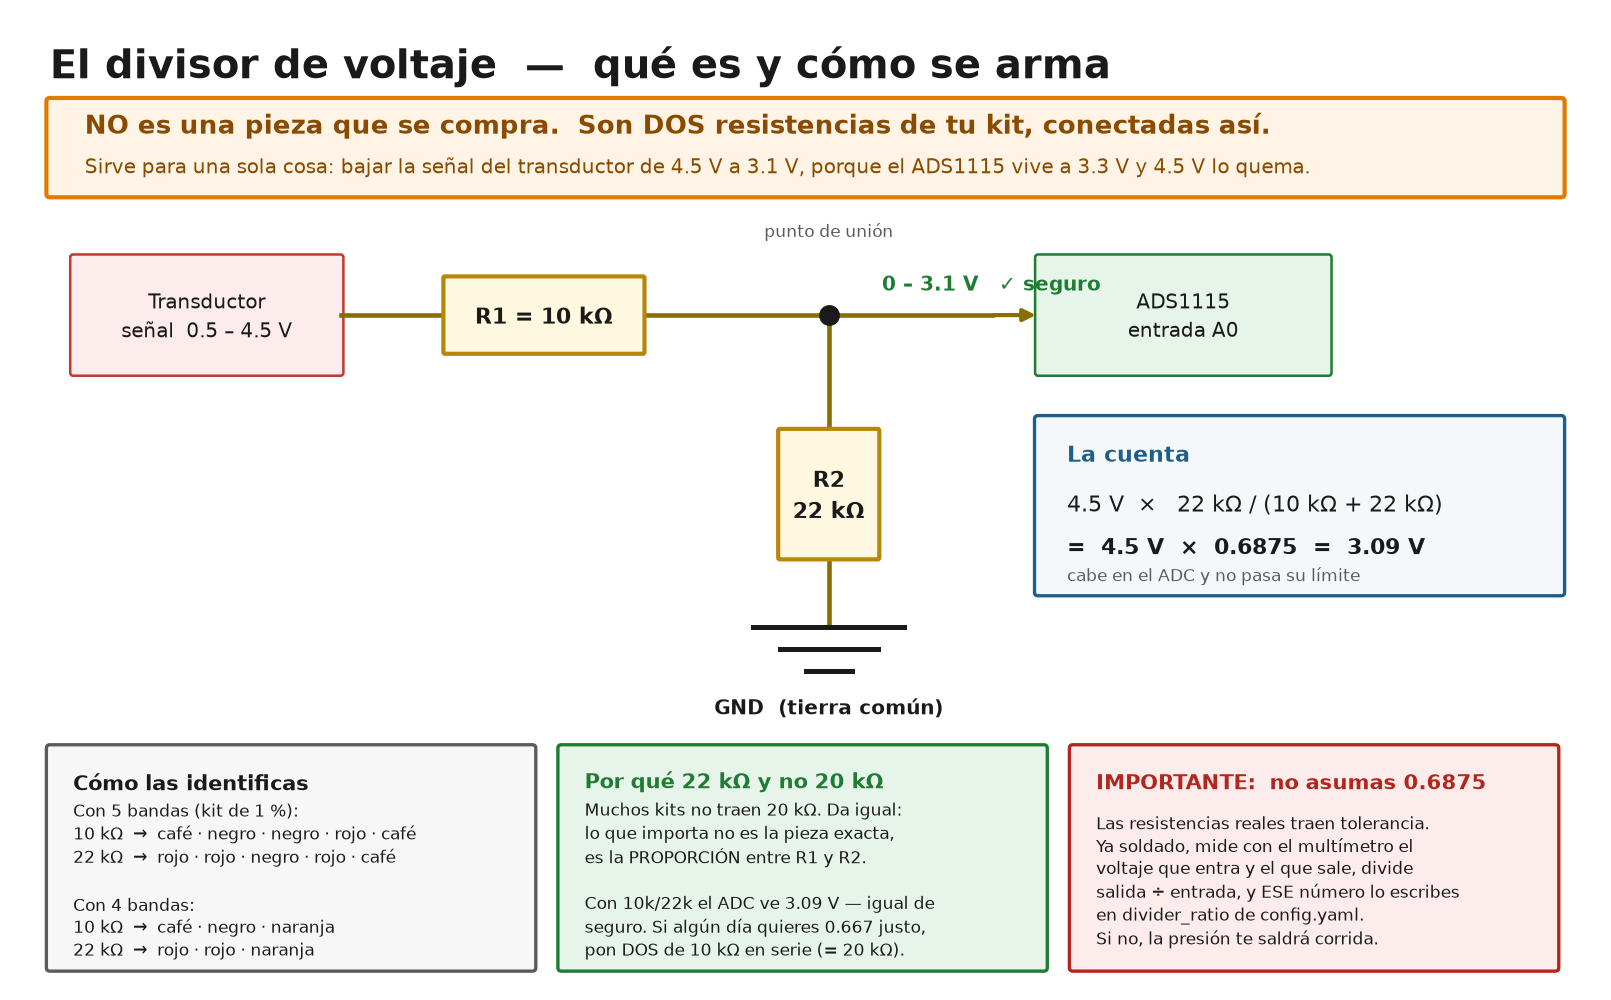
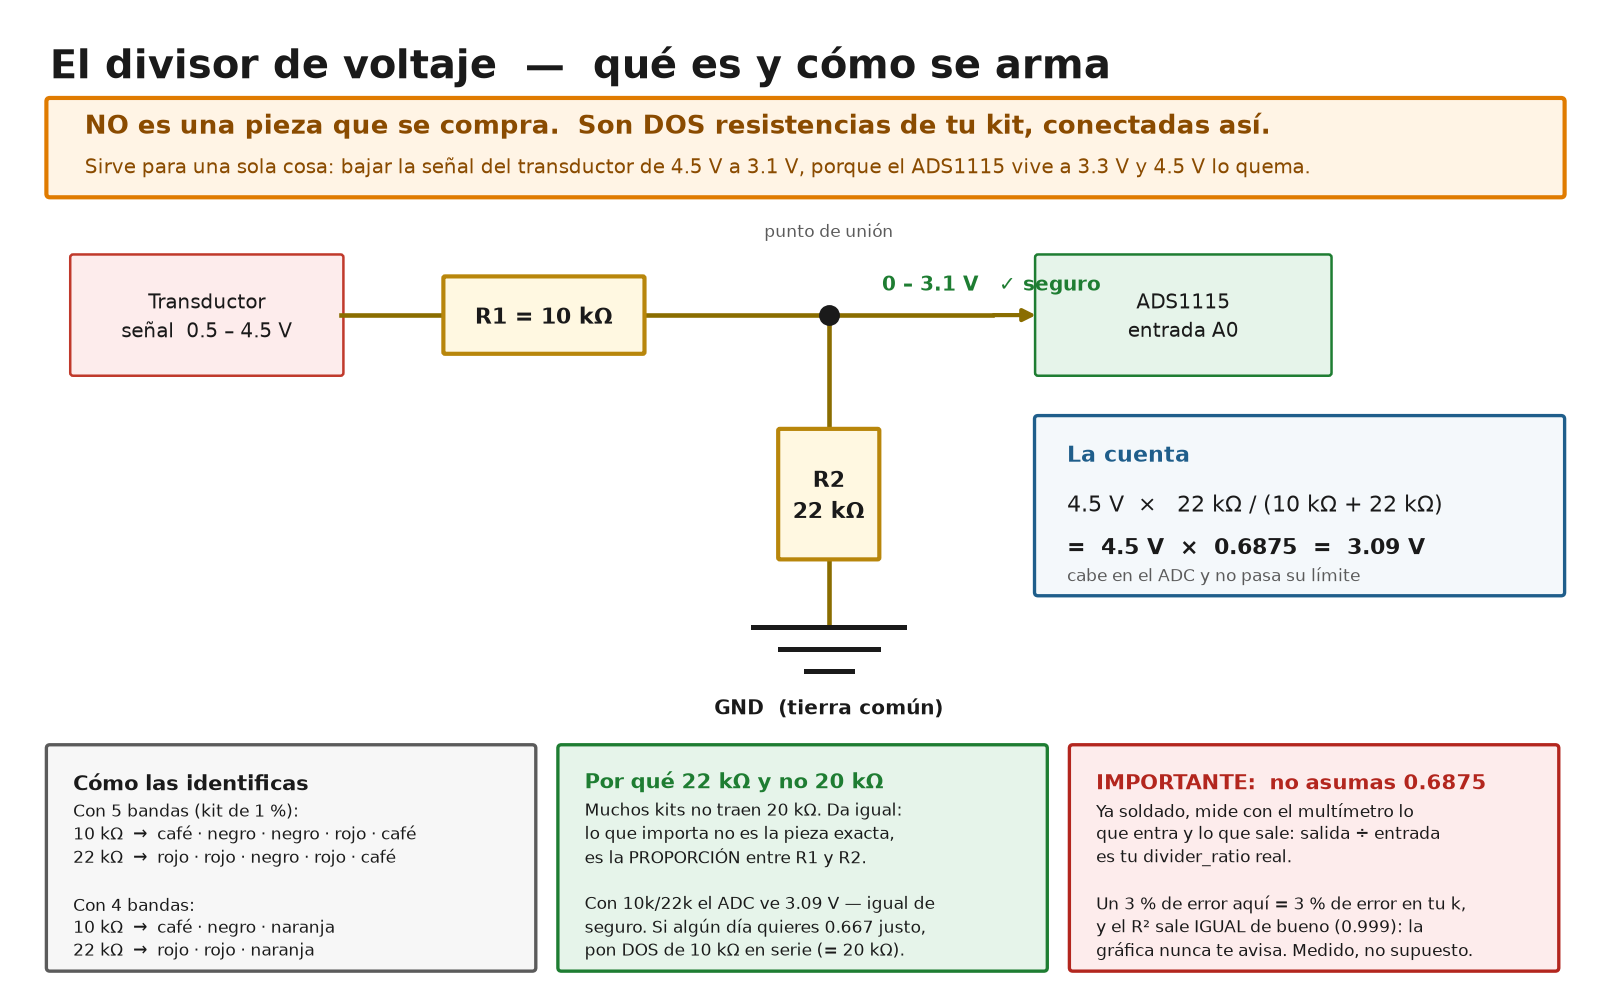
docs(hardware): quantify what an unmeasured divider ratio costs
Control measured the actual damage with fit_permeability, so the warning no
longer has to be vague. Using 0.667 on a physically-0.6875 divider:

  reports 60 kPa as 62.24 kPa  ->  k biased -2.98%
  R2 UNCHANGED at 1.000000, follows_darcy still true

That is the dangerous part: it is a pure scale error (affine, P = 1.0307*P
+ 0.40 kPa from the 0.5 V live-zero), so linearity is perfectly preserved and
nothing in the plot betrays it. The run still passes the R2 >= 0.98 Darcy
criterion while k is silently ~3% low.

Safe for the mesh (it over-reports, so it aborts early), silently wrong for
the result — those are not the same thing, and "fail-safe" only covers the
first. Measuring the soldered divider is therefore gating for a publishable
k, not a nice-to-have.

Recorded where it will actually be read: the divider_ratio comment in
config.yaml, the red card of wiring_divider.png, and build step 3 of the
main diagram.

Scope: affects nothing published. All current numbers are simulation, and
sim uses the mock sensor, which never touches the front end or divider_ratio.
This applies from the first hardware run onward.

Changed region(s): [[0.6828, 0.806, 0.9001, 0.961]]

diff --git a/tools/gen_wiring.py b/tools/gen_wiring.py
@@ -234,7 +234,7 @@ label(ax, 3, 10.0, "ORDEN DE ARMADO   —   de lo más seguro a lo más riesgoso
 stages = [
     ("1", "Solo electrónica", "En el protoboard: SIN agua,\nsin presión y sin servo.\nMide voltajes con multímetro.", HAVE_FC, HAVE_EC),
     ("2", "Verifica los buses", "i2cdetect -y 1  →  debe salir 0x48\nls /sys/bus/w1/devices/  →  28-…\n(1-Wire pide reiniciar)", HAVE_FC, HAVE_EC),
-    ("3", "Mide el divisor", "Vout/Vin con el multímetro, ya\nsoldado, y escribe ESE número\nen divider_ratio. No asumas 0.6875.", HAVE_FC, HAVE_EC),
+    ("3", "Mide el divisor", "Vout/Vin con el multímetro, ya\nsoldado, va en divider_ratio.\n3 % aquí = 3 % de error en tu k.", HAVE_FC, HAVE_EC),
     ("4", "Transductor", "Al puerto del manómetro.\nCalibración de 2 puntos contra\nla carátula. Ya hay presión: cuidado.", "#fff8e1", "#b8860b"),
     ("5", "Solenoide + sonda", "Barbs y abrazaderas en la línea\nde permeado. La sonda va en el\nchorro de desecho.", "#fff8e1", "#b8860b"),
     ("6", "Fugas + kill test", "Presuriza y verifica que sostiene.\nLuego desconecta el sensor a media\ncorrida: DEBE ventear y abortar.", "#fff8e1", "#b8860b"),
@@ -336,12 +336,12 @@ cards = [
      "pon DOS de 10 kΩ en serie (= 20 kΩ).",
      "#e6f4ea", GOOD),
     ("IMPORTANTE:  no asumas 0.6875",
-     "Las resistencias reales traen tolerancia.\n"
-     "Ya soldado, mide con el multímetro el\n"
-     "voltaje que entra y el que sale, divide\n"
-     "salida ÷ entrada, y ESE número lo escribes\n"
-     "en divider_ratio de config.yaml.\n"
-     "Si no, la presión te saldrá corrida.",
+     "Ya soldado, mide con el multímetro lo\n"
+     "que entra y lo que sale: salida ÷ entrada\n"
+     "es tu divider_ratio real.\n\n"
+     "Un 3 % de error aquí = 3 % de error en tu k,\n"
+     "y el R² sale IGUAL de bueno (0.999): la\n"
+     "gráfica nunca te avisa. Medido, no supuesto.",
      "#fdecec", BAD),
 ]
 for i, (title, body, fc, ec) in enumerate(cards):